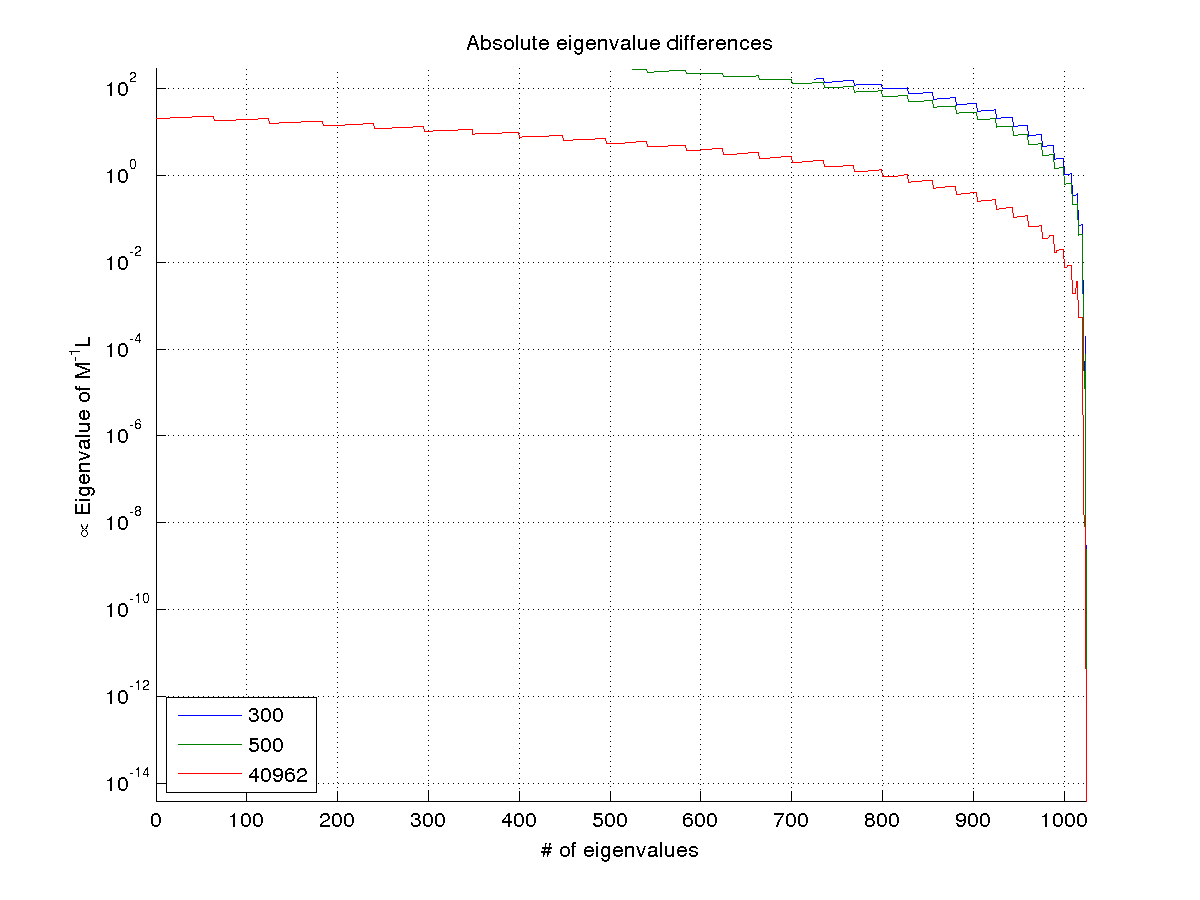
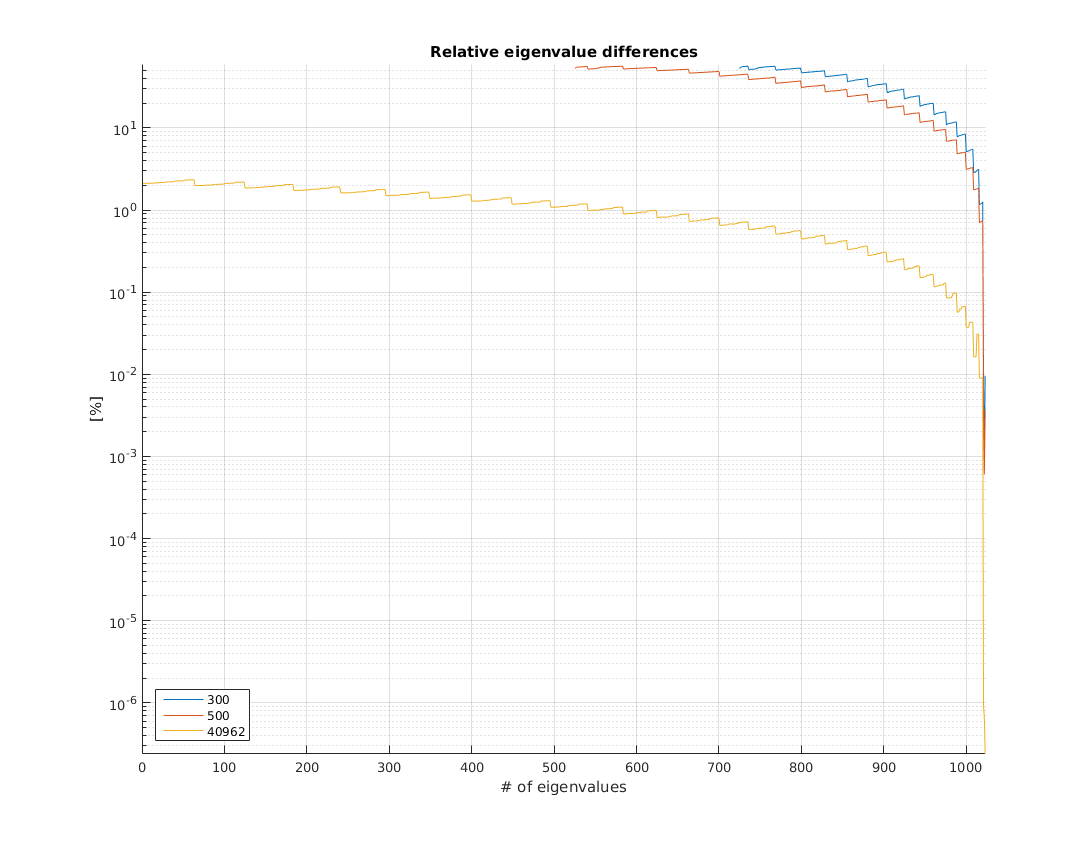
more tests

diff --git a/test_script.m b/test_script.m
@@ -11,9 +11,9 @@ Y43 = @(v) (7*v(:,3).^2-3*vnorm(v).^2).*v(:,1).*v(:,3)./(vnorm(v)).^4;
 % aC = .5; bC = .2; tC = 30; etolC = 5e-4; % Conformal descent control
 % aS = .5; bS = .4; tS = 150; etolS = 5e-4; % invSpec descent control
 imax = 1e3; % gradient descent maximum iterations
-aC = .5; bC = .8; tC = 30; etolC = 5e-4; % Conformal descent control
-aS = .5; bS = .8; tS = 150; etolS = 5e-4; % invSpec descent control
-numeig = .5; % number of eigenvalues used, <=1 => percent, <=0 => all
+aC = .5; bC = .9; tC = 30; etolC = 5e-4; % Conformal descent control
+aS = .5; bS = .9; tS = 150; etolS = 5e-4; % invSpec descent control
+numeig = .3; % number of eigenvalues used, <=1 => percent, <=0 => all
 pert = .512; % scaling coefficient used to control target perturbation
 rng(1432543); % rand seed
 %% input case == 1; import face-vtx from *.obj file
@@ -21,7 +21,7 @@ rng(1432543); % rand seed
 % init_data.dat = 'sphere_small';
 %% input case == 2; sphere of ssize # of vtx
 init_data.num = 2; 
-init_data.dat = '1000';
+init_data.dat = '300';
 %% input case == 3; import face-vtx from *.mat file
 % init_data.num = 3; 
 % init_data.dat = '300';

diff --git a/main.m b/main.m
@@ -12,9 +12,14 @@ if init_data.num == 1
 
 % sphere of chosen size
 elseif init_data.num == 2
-  ssize = str2num(init_data.dat);
-  v = ParticleSampleSphere('Vo',RandSampleSphere(ssize));
-  f = fliplr(convhulln(v));
+  if exist([init_data.dat '.mat'],'file')
+    load([init_data.dat '.mat']);
+  else
+    ssize = str2num(init_data.dat);
+    v = ParticleSampleSphere('Vo',RandSampleSphere(ssize));
+    f = fliplr(convhulln(v));
+    save([init_data.dat '.mat'],'f','v');
+  end
 
 % load face-vertex from *.mat
 elseif init_data.num == 3
@@ -48,6 +53,11 @@ end
 elsq0 = elsq0(isedge); % linear indices
 %% compute laplacian
 [M,L] = lapbel(v,f);
+% sparsify if large enough
+if numv>500
+    L = sparse(L);
+    M = sparse(M);
+end
 D_0 = eigvf(L,M,numeig);
 %% compute mean curvature vertex normal
 Hn = .5*[inv(M)*L*v(:,1) inv(M)*L*v(:,2) inv(M)*L*v(:,3)];

diff --git a/analysis.m b/analysis.m
@@ -110,16 +110,16 @@ D500 = [nan(numeig-numel(D500),1);D500];
 % D1024 = eigvf(L,M,numeig);
 
 figure(); hold all; grid on;
-plot(abs(D300-D_s'));
-plot(abs(D500-D_s'));
-% plot(abs(D1024-D_s'));
-plot(abs(D-D_s'));
+plot(abs((D300-D_s')./D_s')*100);
+plot(abs((D500-D_s')./D_s')*100);
+% plot(abs((D1024-D_s')./D_s')*100);
+plot(abs((D-D_s')./D_s')*100);
 ym = get(gca,'ylim');
 set(gca,'xlim',[0 1024],'ylim',[0 ym(2)],'yscale','log'); 
 % legend('300','500','1024','40962','location','southwest');
 legend('300','500','40962','location','southwest');
-title('Absolute eigenvalue differences');
-xlabel('# of eigenvalues'); ylabel('\propto Eigenvalue of M^{-1}L');
+title('Relative eigenvalue differences');
+xlabel('# of eigenvalues'); ylabel('[%]');
 saveas(gcf,'sphere_spectrum_2.png');
 
 %% cMCF test

diff --git a/eigvf.m b/eigvf.m
@@ -1,6 +1,6 @@
 function varargout = eigvf(L,M,numeig)
 
-% Mnorm = @(v) sqrt(dot(v,M*v)); %why does this ruin things?
+% Mnorm = @(v) sqrt(dot(v,M*v)); %kosher but need 2 work it into gradient
 Mnorm = @(v) sqrt(dot(v,v));
 
 if numeig < size(M,1)

diff --git a/gradescent_old.m b/gradescent_old.m
@@ -1,4 +1,4 @@
-function [J,v] = gradescent(costf,imax,alpha,beta,t0,...
+function [J,v] = gradescent_old(costf,imax,alpha,beta,t0,...
   etol,figfg,v0,varargin)
 % [J,v] = gradescent(costf,imax,alpha,beta,t0,...
 %   etol,figfg,v0,varargin)

diff --git a/gradescent.m b/gradescent.m
@@ -55,9 +55,9 @@ for i = 1:imax
       break;
     end
     if b < inf
-      tau = .5*(a+b);
+      tau = .3*(a+b);
     else
-      tau = 2*a;
+      tau = 3*a;
     end
   end
   v(:,i+1) = v(:,i) + tau*u;
